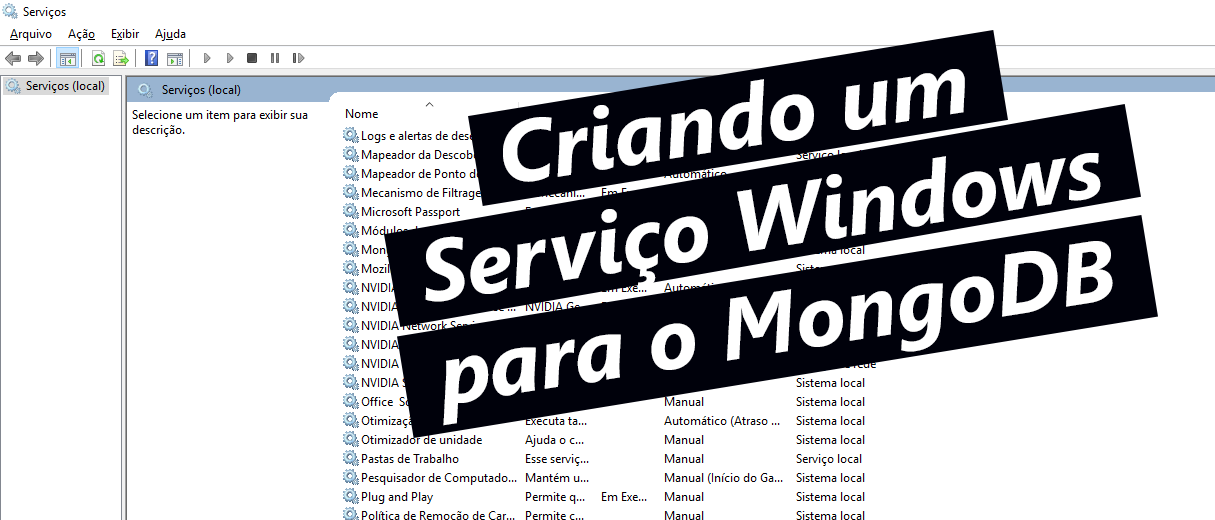
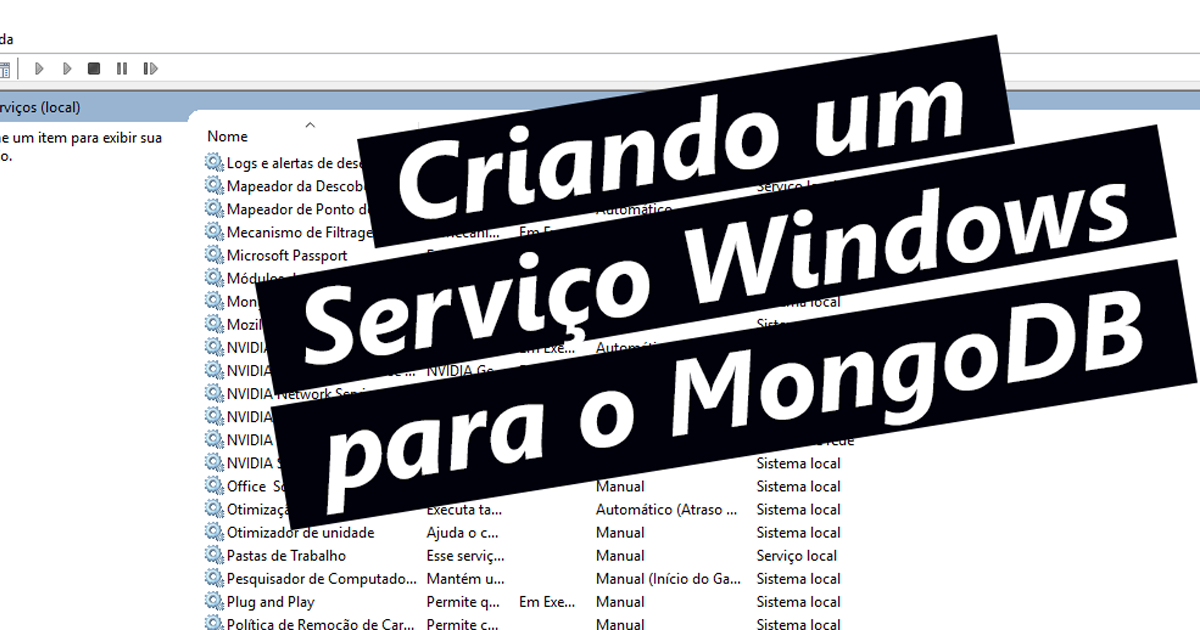
Facebook

diff --git a/Gruntfile.js b/Gruntfile.js
@@ -64,7 +64,7 @@ module.exports = function (grunt) {
                 options: {
                     sizes: [{
                         width: 600,
-                        height: 600,
+                        height: 315,
                         aspectRatio: true,
                     }]
                 },
